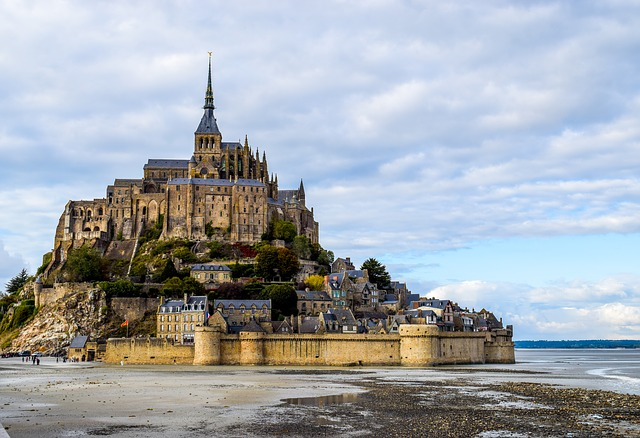
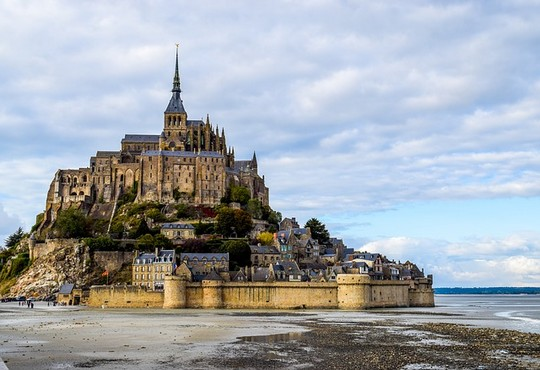
modif taille des images pour la localisation + Ajustement de la mise en page

diff --git a/index.html b/index.html
@@ -103,12 +103,14 @@ style="padding:128px 16px; background:url(https://images.pexels.com/photos/12758
 </div>
 
 <!-- First Grid -->
-<div class="w3-row-padding w3-padding-64 w3-container">
+<div class="w3-row w3-padding-64 w3-container">
   <div class="w3-content">
-    <div class="w3-twothird">
+    <div class="w3-half">
       <h1>Localisation de sables mouvants "classiques"</h1>
       <p>Nous pouvons rencontrer ce type de sable en <B>Normandie</B>, plus précisément au <B>Mont Saint-Michel</B> ou encore en <B>Iran.</B> Le Mont Saint-Michel est une baie connue pour ses <B>grandes marées</B> mais également pour la présence de <B>sables mouvants</B> et aussi de la vitesse à laquelle la mer rejoint les côtes qu’on compare à <B>la vitesse d’un cheval au galop.</B> La baie du Mont Saint-Michel <B>réunit toutes les conditions nécessaire</B> à la formation d’un sable mouvant classique, <B>de l’argile</B> apporté par trois cours d’eau :le Couesnon, la Sée et la Sélune. Tous les trois <B>riches en sédiments</B> et donc en matière argileuse.  L’apport en <B>eau salée</B> fourni par la mer lors des marées d’une intensité pouvant aller à <B>10 mètres en general</B> voir 15 mètres. Et enfin, <B>le sable</B> présent dans la baie complète <B>les exigences.</B></p>
-      <p><img src="assets/images/mont-saint-michel.jpg" alt="mont Saint-Michel"></p>
+  	</div>
+  	<div class="w3-half">
+      <p><img src="assets/images/mont-saint-michel.jpg" style="margin-left: 35px" alt="mont Saint-Michel"></p>
     </div>
 </div>
 </div>
@@ -129,30 +131,33 @@ style="padding:128px 16px; background:url(https://images.pexels.com/photos/12758
 <!-- forme pour les exemples qui défile il manque qql chose pour faire differentes pages pour differents exemples -->
 
 <!-- Second Grid -->
-<div class="w3-row-padding w3-light-grey w3-padding-64 w3-container">
+<div class="w3-row w3-light-grey w3-padding-64 w3-container">
   <div class="w3-content">
     <div class="w3-third w3-center">
     </div>
-
-    <div class="w3-twothird">
+    <div class="w3-half">
       <h1>Localisation de sables mouvants "mouillés"</h1>
       <p>Ce type de sable <B>n’a pas de localisation précise</B> étant donné que c’est un <B>cas plutôt rare</B> cependant <B>en 1964,</B> il s’est manifesté dans la <B>ville de Niigata</B> au Japon suite à un violent séisme de magnitude <B>7,5,</B> le sol étant devenu <B>saturé d’eau</B> c’est liquéfié, ce qui a eu pour conséquence <B>d’engloutir partiellement de nombreux immeubles,</B> certains ont mêmes basculés sur le flanc. Suite à cette catastrophe, au moins <B>⅓ du sol de la ville s’est affaissé de 2 mètre</B> à cause de la compression du sable. Au final, le <B>bilan matériel</B> a été bien <B>plus important</B> que le <B>bilan humain</B> ce qui est en partie dû à la <B>liquéfaction du sol.</B></p>
-      <p><img src="assets/images/Niigata 2.png" alt="immeuble de Niigata"></p>
-    </div>
+  	</div>
+  	<div class="w3-half">
+      <p><img src="assets/images/Niigata 2.png" style="margin-left: 35px" alt="immeuble de Niigata"></p>
+  	</div>
    </div>
   </div>
 <div id="mapJapan" style="width:100%;height:400px;"></div>
 
 <!-- Third Grid -->
-<div class="w3-row-padding w3-padding-64 w3-container">
+<div class="w3-row w3-padding-64 w3-container">
   <div class="w3-content">
-    <div class="w3-twothird">
+    <div class="w3-half">
       <h1>Localisation de sables mouvants "secs"</h1>
       <p>Nous n’avons pas trouvé <B>d’exemple</B> ou de <B>faits précis</B> pour illustrer les <B>sables mouvants secs</B> mais étant donné qu’il est présent particulièrement dans les <B>régions arides</B> et par conséquent <B>les déserts</B> en général, nous allons nous intéresser au <B>désert du Sahara</B> qui serait un lieu propice au développement d’un sable mouvant sec. Le sahara étant la sources de nombreuses <B>tempêtes de sables</B> mais également d’un <B>climat très chaud.</B></p>
-      <p><img src="assets/images/Sahara.jpg" alt="desert Sahara"></p>
-    </div>
+  	</div>
+  	<div class="w3-half">
+      <p><img src="assets/images/Sahara.jpg" style="margin-left: 35px" alt="desert Sahara"></p>
+  	</div>
    </div>
-  </div>
+</div>
 <div id="mapSahara" style="width:100%;height:400px;"></div>
 
 
@@ -517,6 +522,7 @@ style="padding:128px 16px; background:url(https://images.pexels.com/photos/12758
 	<p class="w3-margin w3-jumbo">Merci de votre visite et à bientôt !</p>	
 	<a href="https://github.com/elo-erin/tpe" target="_blank" class="fa fa-github"></a>
 	</div>
+
 	<div class="w3-tooltip w3-right top-link">
 	    <span class="w3-text w3-padding w3-teal w3-hide-small w3-black">Revenir à l'Accueil</span>   
 	    <a class="w3-button w3-theme" href="#"><span class="w3-xlarge">
